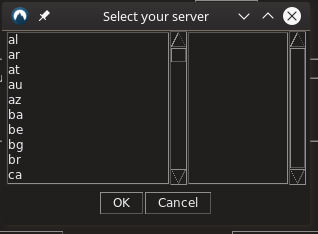
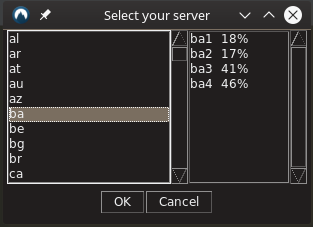
updated readme and screenshots

Changed region(s): [[0.0, 0.0, 1.0, 0.9559], [0.7188, 0.9868, 1.0, 1.0], [0.0, 0.9868, 0.2013, 1.0]]

diff --git a/README.md b/README.md
@@ -1,5 +1,5 @@
 # NordPy
-A python application with gui to connect automatically to the recommended NordVPN server (as of NordVPN site) of a certain type, in a certain country or to the specific chosen server.
+A python application with gui to connect automatically to the recommended NordVPN server (as of NordVPN site) of a certain type, in a certain country or to the specific chosen server or to choose manually the preferred server (stats for each server are shown in the relative window).
 
 All server types on NordVPN site are available to be selected in the window.
 
@@ -22,7 +22,9 @@ then run install.sh
 Open the application, select your preferred server type (also manually) and protocol and just press connect. Once you are connected you can even close the application and reopen it when you want to disconnect the VPN.
 If the size of the window does not fit entirely the gui components change the scale factor in the advanced settings.
 
-<b>Note</b>: The button "Reset settings" resets only the settings of the connection (each time a VPN connection is established the used options are saved and restored at the next start).
+#### Additional info
+<li> The button "Reset settings" resets only the settings of the connection (each time a VPN connection is established the used options are saved and restored at the next start). </li>
+<li> The percent associated to each server in the window for manual choice is the <b>load</b> (a big load implies a slower connection)</li>
 
 #### Previews
 ![Alt text](media/screenshots/screen01.png?raw=true "Preview")  
